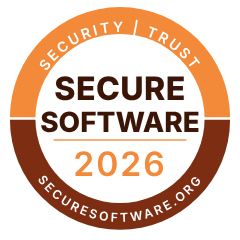
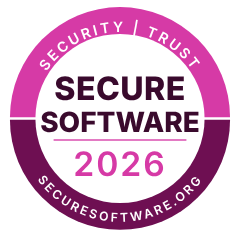
Switch theme from orange to magenta
Claude-Session: https://claude.ai/code/session_01G6gvxkUtkH3PQ2kPFbRBNR

diff --git a/site.css b/site.css
@@ -1,10 +1,10 @@
 /* Secure Software — shared site styles.
-   Same layout system as securefunder.org / securebroker.org, with an orange palette. */
+   Same layout system as securefunder.org / securebroker.org, with a magenta palette. */
 :root {
-  --ink: #1F1611; --text: #463A31; --muted: #7A6A5D; --rule: #E7DED5; --band: #FBF5EF; --paper: #FFFFFF;
-  --link: #C2410C; --accent: #C2410C; --accent-deep: #9A3412; --dark: #2B1709;
-  --highlight: #FDBA74; --tag: #FED7AA;
-  --foot-text: #CDBBAA; --foot-head: #A8927F; --foot-link: #F3E6DA;
+  --ink: #1E1219; --text: #45363F; --muted: #7A6672; --rule: #EADCE5; --band: #FCF4F9; --paper: #FFFFFF;
+  --link: #A21C7A; --accent: #A21C7A; --accent-deep: #7E1460; --dark: #2A0B22;
+  --highlight: #F5A6DA; --tag: #FBD3EE;
+  --foot-text: #D4BFCC; --foot-head: #A98E9E; --foot-link: #F5E6EF;
   --serif: 'Source Serif 4', Georgia, 'Times New Roman', serif;
   --sans: 'Public Sans', 'Helvetica Neue', Arial, sans-serif;
   --wrap: 1160px;
@@ -66,7 +66,7 @@ h1, h2, h3 { font-family: var(--serif); color: var(--ink); font-weight: 500; mar
 .body p:last-child { margin-bottom: 0; }
 .body strong { color: var(--ink); font-weight: 600; }
 .tag-new { display: inline-block; background: var(--tag); color: var(--ink); font-size: 12px; font-weight: 700; letter-spacing: .08em; text-transform: uppercase; line-height: 1; padding: 6px 9px; margin-bottom: 14px; }
-.soft-mark { background: rgba(253, 186, 116, .5); color: inherit; padding: 1px 4px; border-radius: 3px; }
+.soft-mark { background: rgba(245, 166, 218, .5); color: inherit; padding: 1px 4px; border-radius: 3px; }
 
 .lead { font-family: var(--serif); font-size: 24px; line-height: 1.45; color: var(--ink); margin: 0 0 28px; max-width: 30em; }
 
@@ -90,7 +90,7 @@ h1, h2, h3 { font-family: var(--serif); color: var(--ink); font-weight: 500; mar
 /* Compare (not a checklist) */
 .contrast { display: grid; grid-template-columns: repeat(2, minmax(0, 1fr)); gap: 16px; }
 .contrast > div { border: 1px solid var(--rule); padding: 22px 22px 24px; }
-.contrast .is { border-color: var(--accent); background: #FFF8F2; }
+.contrast .is { border-color: var(--accent); background: #FDF5FA; }
 .contrast h3 { font-family: var(--sans); font-size: 12px; font-weight: 700; letter-spacing: .1em; text-transform: uppercase; color: var(--muted); margin: 0 0 12px; }
 .contrast .is h3 { color: var(--accent); }
 .contrast ul { list-style: none; margin: 0; padding: 0; }
@@ -196,7 +196,7 @@ h1, h2, h3 { font-family: var(--serif); color: var(--ink); font-weight: 500; mar
 .site-foot .foot-bottom { margin-top: 44px; padding-top: 20px; border-top: 1px solid rgba(255,255,255,.15); display: flex; justify-content: space-between; gap: 24px; flex-wrap: wrap; }
 
 /* Bio modal */
-.bio-overlay { position: fixed; inset: 0; z-index: 100; background: rgba(31,22,17,.5); display: none; align-items: center; justify-content: center; padding: 24px; }
+.bio-overlay { position: fixed; inset: 0; z-index: 100; background: rgba(30,18,25,.5); display: none; align-items: center; justify-content: center; padding: 24px; }
 .bio-overlay.active { display: flex; }
 .bio-box { position: relative; background: #fff; max-width: 620px; width: 100%; padding: 44px 40px 36px; border: 1px solid var(--rule); max-height: 90vh; overflow: auto; }
 .bio-box h3 { font-size: 24px; margin-bottom: 18px; }

diff --git a/how-it-works/index.html b/how-it-works/index.html
@@ -10,8 +10,8 @@
 <meta property="og:type" content="website">
 <meta property="og:url" content="https://securesoftware.org/how-it-works/">
 <meta property="og:image" content="https://securesoftware.org/og-blank.png">
-<link rel="icon" type="image/png" sizes="32x32" href="../orange-rings.png">
-<link rel="apple-touch-icon" sizes="180x180" href="../orange-rings.png">
+<link rel="icon" type="image/png" sizes="32x32" href="../magenta-rings.png">
+<link rel="apple-touch-icon" sizes="180x180" href="../magenta-rings.png">
 <link rel="preconnect" href="https://fonts.googleapis.com">
 <link rel="preconnect" href="https://fonts.gstatic.com" crossorigin>
 <link href="https://fonts.googleapis.com/css2?family=Public+Sans:wght@400;500;600;700&family=Source+Serif+4:opsz,wght@8..60,400;8..60,500;8..60,600;8..60,700&display=swap" rel="stylesheet">
@@ -23,7 +23,7 @@
 
 <header class="nav">
   <div class="wrap">
-    <a class="nav-logo" href="../" aria-label="Secure Software home"><img src="../orange-rings.png" alt=""><span>Secure Software<sup>&trade;</sup></span></a>
+    <a class="nav-logo" href="../" aria-label="Secure Software home"><img src="../magenta-rings.png" alt=""><span>Secure Software<sup>&trade;</sup></span></a>
     <nav class="nav-links" aria-label="Primary">
       <a href="https://securebroker.org" target="_blank" rel="noopener noreferrer">For Brokers</a>
       <a href="https://securefunder.org" target="_blank" rel="noopener noreferrer">For Funders</a>

diff --git a/directory/index.html b/directory/index.html
@@ -10,8 +10,8 @@
 <meta property="og:type" content="website">
 <meta property="og:url" content="https://securesoftware.org/directory/">
 <meta property="og:image" content="https://securesoftware.org/og-blank.png">
-<link rel="icon" type="image/png" sizes="32x32" href="../orange-rings.png">
-<link rel="apple-touch-icon" sizes="180x180" href="../orange-rings.png">
+<link rel="icon" type="image/png" sizes="32x32" href="../magenta-rings.png">
+<link rel="apple-touch-icon" sizes="180x180" href="../magenta-rings.png">
 <link rel="preconnect" href="https://fonts.googleapis.com">
 <link rel="preconnect" href="https://fonts.gstatic.com" crossorigin>
 <link href="https://fonts.googleapis.com/css2?family=Public+Sans:wght@400;500;600;700&family=Source+Serif+4:opsz,wght@8..60,400;8..60,500;8..60,600;8..60,700&display=swap" rel="stylesheet">
@@ -23,7 +23,7 @@
 
 <header class="nav">
   <div class="wrap">
-    <a class="nav-logo" href="../" aria-label="Secure Software home"><img src="../orange-rings.png" alt=""><span>Secure Software<sup>&trade;</sup></span></a>
+    <a class="nav-logo" href="../" aria-label="Secure Software home"><img src="../magenta-rings.png" alt=""><span>Secure Software<sup>&trade;</sup></span></a>
     <nav class="nav-links" aria-label="Primary">
       <a href="https://securebroker.org" target="_blank" rel="noopener noreferrer">For Brokers</a>
       <a href="https://securefunder.org" target="_blank" rel="noopener noreferrer">For Funders</a>

diff --git a/contact/index.html b/contact/index.html
@@ -10,8 +10,8 @@
 <meta property="og:type" content="website">
 <meta property="og:url" content="https://securesoftware.org/contact/">
 <meta property="og:image" content="https://securesoftware.org/og-blank.png">
-<link rel="icon" type="image/png" sizes="32x32" href="../orange-rings.png">
-<link rel="apple-touch-icon" sizes="180x180" href="../orange-rings.png">
+<link rel="icon" type="image/png" sizes="32x32" href="../magenta-rings.png">
+<link rel="apple-touch-icon" sizes="180x180" href="../magenta-rings.png">
 <link rel="preconnect" href="https://fonts.googleapis.com">
 <link rel="preconnect" href="https://fonts.gstatic.com" crossorigin>
 <link href="https://fonts.googleapis.com/css2?family=Public+Sans:wght@400;500;600;700&family=Source+Serif+4:opsz,wght@8..60,400;8..60,500;8..60,600;8..60,700&display=swap" rel="stylesheet">
@@ -23,7 +23,7 @@
 
 <header class="nav">
   <div class="wrap">
-    <a class="nav-logo" href="../" aria-label="Secure Software home"><img src="../orange-rings.png" alt=""><span>Secure Software<sup>&trade;</sup></span></a>
+    <a class="nav-logo" href="../" aria-label="Secure Software home"><img src="../magenta-rings.png" alt=""><span>Secure Software<sup>&trade;</sup></span></a>
     <nav class="nav-links" aria-label="Primary">
       <a href="https://securebroker.org" target="_blank" rel="noopener noreferrer">For Brokers</a>
       <a href="https://securefunder.org" target="_blank" rel="noopener noreferrer">For Funders</a>

diff --git a/join/index.html b/join/index.html
@@ -10,8 +10,8 @@
 <meta property="og:type" content="website">
 <meta property="og:url" content="https://securesoftware.org/join/">
 <meta property="og:image" content="https://securesoftware.org/og-blank.png">
-<link rel="icon" type="image/png" sizes="32x32" href="../orange-rings.png">
-<link rel="apple-touch-icon" sizes="180x180" href="../orange-rings.png">
+<link rel="icon" type="image/png" sizes="32x32" href="../magenta-rings.png">
+<link rel="apple-touch-icon" sizes="180x180" href="../magenta-rings.png">
 <link rel="preconnect" href="https://fonts.googleapis.com">
 <link rel="preconnect" href="https://fonts.gstatic.com" crossorigin>
 <link href="https://fonts.googleapis.com/css2?family=Public+Sans:wght@400;500;600;700&family=Source+Serif+4:opsz,wght@8..60,400;8..60,500;8..60,600;8..60,700&display=swap" rel="stylesheet">
@@ -23,7 +23,7 @@
 
 <header class="nav">
   <div class="wrap">
-    <a class="nav-logo" href="../" aria-label="Secure Software home"><img src="../orange-rings.png" alt=""><span>Secure Software<sup>&trade;</sup></span></a>
+    <a class="nav-logo" href="../" aria-label="Secure Software home"><img src="../magenta-rings.png" alt=""><span>Secure Software<sup>&trade;</sup></span></a>
     <nav class="nav-links" aria-label="Primary">
       <a href="https://securebroker.org" target="_blank" rel="noopener noreferrer">For Brokers</a>
       <a href="https://securefunder.org" target="_blank" rel="noopener noreferrer">For Funders</a>

diff --git a/index.html b/index.html
@@ -10,8 +10,8 @@
 <meta property="og:type" content="website">
 <meta property="og:url" content="https://securesoftware.org/">
 <meta property="og:image" content="https://securesoftware.org/og-blank.png">
-<link rel="icon" type="image/png" sizes="32x32" href="orange-rings.png">
-<link rel="apple-touch-icon" sizes="180x180" href="orange-rings.png">
+<link rel="icon" type="image/png" sizes="32x32" href="magenta-rings.png">
+<link rel="apple-touch-icon" sizes="180x180" href="magenta-rings.png">
 <link rel="preconnect" href="https://fonts.googleapis.com">
 <link rel="preconnect" href="https://fonts.gstatic.com" crossorigin>
 <link href="https://fonts.googleapis.com/css2?family=Public+Sans:wght@400;500;600;700&family=Source+Serif+4:opsz,wght@8..60,400;8..60,500;8..60,600;8..60,700&display=swap" rel="stylesheet">
@@ -23,7 +23,7 @@
 
 <header class="nav">
   <div class="wrap">
-    <a class="nav-logo" href="./" aria-label="Secure Software home"><img src="orange-rings.png" alt=""><span>Secure Software<sup>&trade;</sup></span></a>
+    <a class="nav-logo" href="./" aria-label="Secure Software home"><img src="magenta-rings.png" alt=""><span>Secure Software<sup>&trade;</sup></span></a>
     <nav class="nav-links" aria-label="Primary">
       <a href="https://securebroker.org" target="_blank" rel="noopener noreferrer">For Brokers</a>
       <a href="https://securefunder.org" target="_blank" rel="noopener noreferrer">For Funders</a>

diff --git a/README.md b/README.md
@@ -1,7 +1,7 @@
 # secure-software-site
 
-Static site for Secure Software™ (securesoftware.org), the software certification in the Secure Broker / Secure Funder family. Same layout system as those sites, with an orange palette.
+Static site for Secure Software™ (securesoftware.org), the software certification in the Secure Broker / Secure Funder family. Same layout system as those sites, with an magenta palette.
 
 - `site.css`: shared styles; colors are the tokens at the top.
 - Pages: `/`, `/how-it-works/`, `/join/`, `/contact/`, `/directory/`.
-- `src/badge.svg`, `src/rings.svg`: sources for the badge and logo. Re-render the PNGs with `node src/render.js '[["src/badge.svg","secure-software-badge-2026.png",1254],["src/badge.svg","family-of-brands/secure-software-badge.png",240],["src/rings.svg","orange-rings.png",500]]'`.
+- `src/badge.svg`, `src/rings.svg`: sources for the badge and logo. Re-render the PNGs with `node src/render.js '[["src/badge.svg","secure-software-badge-2026.png",1254],["src/badge.svg","family-of-brands/secure-software-badge.png",240],["src/rings.svg","magenta-rings.png",500]]'`.
